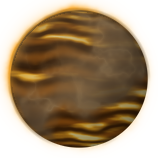
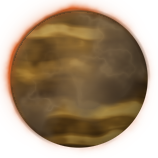
Brown dwarf look 7: mottled dark brown and ochre instead of fine amber bands
Claude-Session: https://claude.ai/code/session_01JBSoBdAT3FeCyXV6Bu7Tri

diff --git a/tools/make_barriers.py b/tools/make_barriers.py
@@ -329,7 +329,7 @@ BROWN_DWARFS = [
     [(22, 4, 6), (100, 22, 22), (240, 80, 40), (255, 190, 110), (230, 90, 60), (5, 8), 0.5],       # dim
     [(38, 22, 8), (115, 72, 30), (255, 225, 40), (255, 252, 190), (255, 215, 60), (6, 9), 0.75],   # brown and bright yellow
     [(40, 8, 30), (140, 35, 95), (255, 95, 165), (255, 215, 235), (235, 95, 185), (4, 6), 0.4],    # magenta (the coolest)
-    [(50, 26, 6), (190, 105, 20), (255, 185, 40), (255, 240, 170), (255, 175, 50), (8, 12), 0.6],  # amber, fine bands
+    [(40, 22, 8), (195, 140, 50), (240, 200, 105), (255, 235, 170), (225, 100, 40), (3, 5), 0.0, "mottled"],  # mottled brown and ochre
     [(18, 10, 8), (70, 45, 30), (200, 95, 35), (255, 180, 100), (190, 90, 50), (3, 5), 0.25],      # dark, nearly cold
 ]
 
@@ -367,6 +367,15 @@ def brown_dwarf(rng, style):
     streak = np.clip((st - cut) / 0.25, 0, 1) ** 1.1 * np.clip(bands * 1.8 - 0.35, 0, 1)
     flecks = np.clip((_stretched(rng, s, 3, 16, 3) - 0.78) / 0.22, 0, 1) * bands
     heat = np.clip(streak + flecks * 0.5, 0, 1)
+    if style[7:] == ["mottled"]:
+        # no glowing streaks: broad soft bands broken into blotches of
+        # ochre and dark brown, the light patches a little paler
+        blot = warp + 0.5
+        sharp = np.clip((bands - 0.35) / 0.3, 0, 1)
+        tone = 0.35 * sharp + 0.15 * st + 0.75 * blot - 0.2
+        tone = (tone - 0.45) * 1.5 + 0.45 + 0.12 * (st - 0.5)
+        bands = np.clip(tone, 0, 1)
+        heat = np.clip((tone - 0.8) / 0.3, 0, 1) * 0.6
     rgb = dark + (mid - dark) * bands[..., None]
     rgb = rgb + (hot - rgb) * np.clip(heat * 1.4, 0, 1)[..., None]
     rgb = rgb + (core - rgb) * np.clip(heat * 2.2 - 1.3, 0, 1)[..., None]
